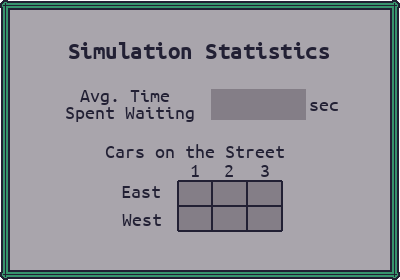
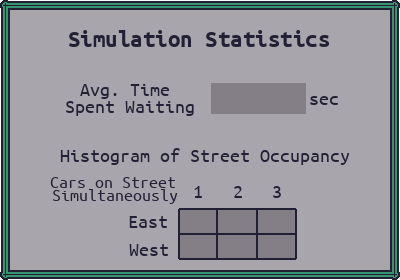
Update displayed statistics for clarity

diff --git a/source/main.cpp b/source/main.cpp
@@ -94,25 +94,29 @@ class RenderSimulation : public olc::PixelGameEngine {
         averageWaitTime = averageWaitTime / crossingData.size();
         std::string formattedWaitTime = getFormattedWaitTime(averageWaitTime);
 
-        this->DrawStringDecal({520, 430}, formattedWaitTime, olc::BLACK, {2.0, 2.0});
+        this->DrawStringDecal({520, 425}, formattedWaitTime, olc::BLACK, {2.0, 2.0});
 
         const int (&occupancy)[NUM_DIRECTIONS][MAX_OCCUPANCY + 1] = simStats->getOccupancy();
 
-        std::vector<std::string> occupancyStrings(NUM_DIRECTIONS); 
+        std::vector<std::string> occupancyStrings; 
         for (int i = 0; i < NUM_DIRECTIONS; i++) {
             for (int j = 1; j < MAX_OCCUPANCY + 1; j++) {
-                occupancyStrings[i] += std::to_string(occupancy[i][j]) + " ";
+                occupancyStrings.push_back(std::to_string(occupancy[i][j]));
             }
         }
-        this->DrawStringDecal({490, 522}, occupancyStrings[0], olc::BLACK, {2.0, 2.0});
-        this->DrawStringDecal({490, 548}, occupancyStrings[1], olc::BLACK, {2.0, 2.0});
+        this->DrawStringDecal({485, 550}, occupancyStrings[0], olc::BLACK, {2.0, 2.0});
+        this->DrawStringDecal({530, 550}, occupancyStrings[1], olc::BLACK, {2.0, 2.0});
+        this->DrawStringDecal({570, 550}, occupancyStrings[2], olc::BLACK, {2.0, 2.0});
+        this->DrawStringDecal({485, 575}, occupancyStrings[3], olc::BLACK, {2.0, 2.0});
+        this->DrawStringDecal({530, 575}, occupancyStrings[4], olc::BLACK, {2.0, 2.0});
+        this->DrawStringDecal({570, 575}, occupancyStrings[5], olc::BLACK, {2.0, 2.0});
     }
 
     std::string getFormattedWaitTime(float averageWaitTime) {
         std::string formattedWaitTime = std::to_string(averageWaitTime);
         size_t decimalPos = formattedWaitTime.find('.');
-        if (decimalPos != std::string::npos && formattedWaitTime.size() > decimalPos + 4) {
-            formattedWaitTime = formattedWaitTime.substr(0, decimalPos + 4);
+        if (decimalPos != std::string::npos && formattedWaitTime.size() > decimalPos + 3) {
+            formattedWaitTime = formattedWaitTime.substr(0, decimalPos + 3);
         }
         return formattedWaitTime;
     }

diff --git a/source/display/car.h b/source/display/car.h
@@ -15,7 +15,7 @@ class Car {
     const olc::vf2d START_WEST = {1256, 360};
     const std::vector<olc::vf2d> WAIT_TO_GO_EAST = {{125, 490}};
     const std::vector<olc::vf2d> WAIT_TO_GO_WEST = {{875, 360}};
-    const std::vector<olc::vf2d> PATH_CROSSING_EAST = {{1256, 490}};
+    const std::vector<olc::vf2d> PATH_CROSSING_EAST = {{500, 490}, {1256, 490}};
     const std::vector<olc::vf2d> PATH_CROSSING_WEST = {{700, 490}, {350, 490}, {200, 360}, {-256, 360}};
     const float DEFAULT_SPEED = 500.0;
     const std::string IMAGES_FOLDER = "./source/assets/vehicles/";
